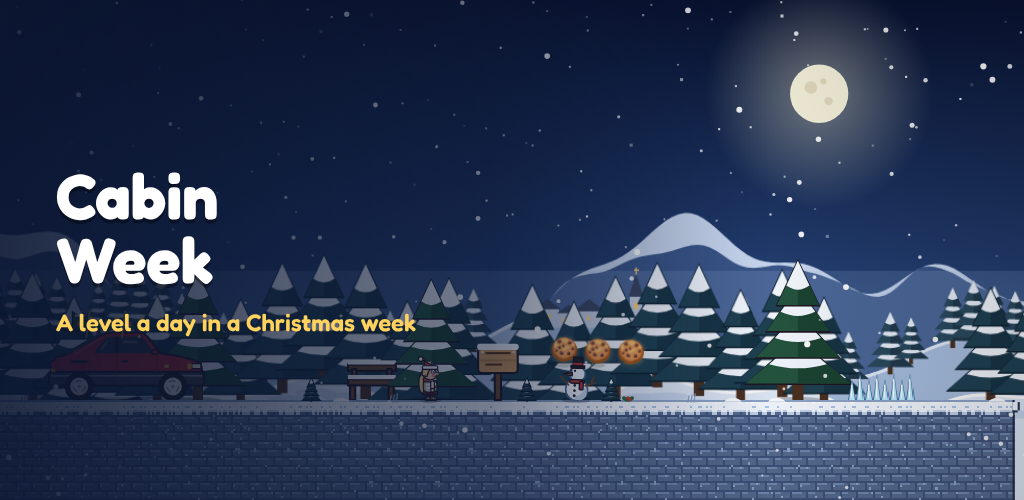
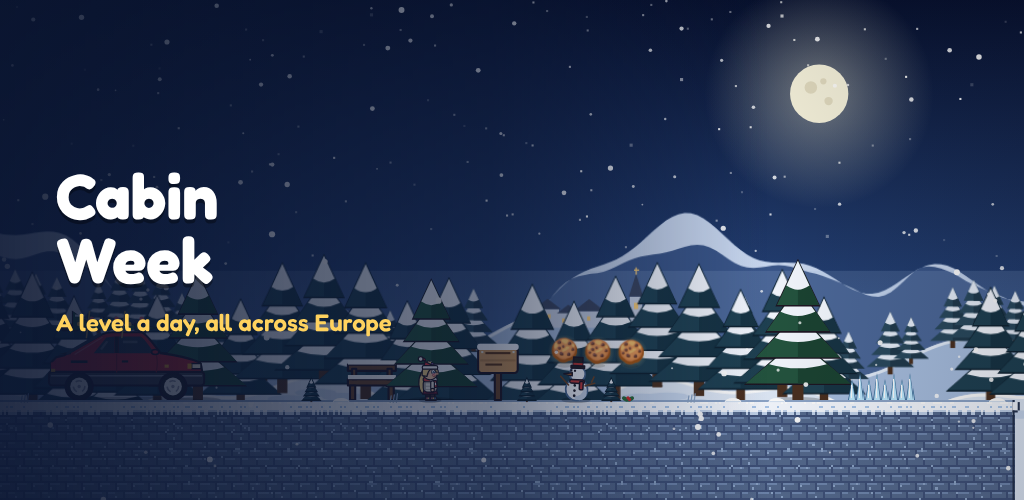
Store: new screenshots and texts for the six trips
Eight screenshots for Google Play (the title, the map of Europe, swimming in
Dalmatia, the cable car in Tirol, the windmills, the ice floe at the North
Pole, belly-sliding on Christmas Day and making your own hero), new store
descriptions in English and Dutch, release notes, and a feature graphic
tagline that fits the summer trip too.

Claude-Session: https://claude.ai/code/session_01VpBcyhxnr4KrCTq6G157K1

Changed region(s): [[0.1875, 0.63, 0.4062, 0.69]]

diff --git a/tools/store.js b/tools/store.js
@@ -2,7 +2,7 @@
 // - feature-graphic.png (1024×500): de grote afbeelding bovenaan de vermelding
 // - social-preview.png (1280×640): de social preview van de repository op GitHub (Settings → General → Social preview)
 // - tv-banner.png (1280×720): de banner voor Android TV (uit android-tv/banner.svg)
-// - screenshot-*.png (1920×1080): voor telefoon, tablet en tv
+// - screenshot-*.png (1920×1080): for phone, tablet and TV (Google Play takes up to 8): the title, the map, six regions and your own hero
 const { chromium } = require('@playwright/test');
 const { spawn } = require('child_process');
 const fs = require('fs');
@@ -12,10 +12,19 @@ const root = path.join(__dirname, '..'), out = path.join(root, 'docs', 'play-sto
 const port = 4187, base = `http://127.0.0.1:${port}/`;
 const KEY = 'cabin-week';
 
-async function open(browser, { width, height, scale = 1, char = 0, lang = 'en' }) {
+// Your own hero in the screenshots (a made-up kid with red curls).
+const HERO = { name: 'Robin', size: 'kid', skin: '#c68a5c', hair: 'curly', hairCol: '#b5512a', coat: 'puffer', coatCol: '#e8a33a',
+  pants: '#2f4870', glasses: 'round', beanie: '#2e5a9a', scarf: '#59c28a' };
+
+async function open(browser, { width, height, scale = 1, char = 0, lang = 'en', region = 'ardennes' }) {
   const page = await browser.newPage({ viewport: { width, height }, deviceScaleFactor: scale });
   await page.goto(base + '?lang=' + lang);
-  await page.evaluate(([KEY, char]) => localStorage.setItem(KEY, JSON.stringify({ unlocked: 8, char, best: {} })), [KEY, char]);
+  await page.evaluate(([KEY, char, region, HERO]) => {
+    // Every region unlocked, a few days played here and there, so the map shows progress.
+    const regions = { pole: { unlocked: 8, best: { 0: 3, 1: 3 } }, tirol: { unlocked: 8, best: { 0: 3 } }, norway: { unlocked: 8, best: { 0: 3, 1: 3, 2: 3 } },
+      netherlands: { unlocked: 8, best: {} }, dalmatia: { unlocked: 8, best: { 0: 3 } } };
+    localStorage.setItem(KEY, JSON.stringify({ unlocked: 8, char, best: { 0: 3, 1: 3, 2: 3, 3: 3 }, region, regions, hero: HERO }));
+  }, [KEY, char, region, HERO]);
   await page.reload();
   await page.waitForFunction(() => document.documentElement.classList.contains('ready'));
   await page.evaluate(() => document.fonts.ready);
@@ -39,19 +48,52 @@ async function play(page, i, walk) {
   await new Promise(r => setTimeout(r, 800));
   const browser = await chromium.launch(process.env.PW_CHROMIUM ? { executablePath: process.env.PW_CHROMIUM } : {});
   try {
-    // Schermafbeeldingen: 1280×720 op anderhalve scherpte = 1920×1080
+    // Screenshots: 1280×720 at 1.5× = 1920×1080. [file, region, day (null = a menu), character, walk ms, extra]
     const shots = [
-      ['screenshot-1-titel.png', null, 0, 0],
-      ['screenshot-2-aankomst.png', 0, 3, 1500],
-      ['screenshot-3-verjaardag.png', 3, 0, 1200],
-      ['screenshot-4-kerst.png', 4, 8, 1800],
-      ['screenshot-5-glijden.png', 5, 6, 900, true],
+      ['screenshot-1-title.png', 'norway', null, 'me', 0],
+      ['screenshot-2-map.png', 'ardennes', null, 0, 0, 'map'],
+      ['screenshot-3-dalmatia.png', 'dalmatia', 0, 3, 0, 'swim'],
+      ['screenshot-4-tirol.png', 'tirol', 2, 6, 0, 'mover'],
+      ['screenshot-5-netherlands.png', 'netherlands', 1, 2, 1600],
+      ['screenshot-6-north-pole.png', 'pole', 0, 5, 0, 'mover'],
+      ['screenshot-7-christmas.png', 'ardennes', 4, 8, 900, 'slide'],
+      ['screenshot-8-hero.png', 'ardennes', null, 'me', 0, 'hero'],
     ];
-    for (const [name, day, char, walk, slide] of shots) {
-      const page = await open(browser, { width: 1280, height: 720, scale: 1.5, char });
+    for (const [name, region, day, char, walk, extra] of shots) {
+      const page = await open(browser, { width: 1280, height: 720, scale: 1.5, char, region });
       if (day !== null) await play(page, day, walk);
-      if (slide) {
-        // Buikglijden door de sneeuw: op een vlak stuk zonder blokken, bordjes of mensen in de buurt.
+      if (extra === 'map') {
+        await page.locator('#regionBtn').click();
+        await page.waitForSelector('#mapWrap:not([hidden])');
+        await page.locator('#mapBox .pin[data-region="tirol"]').hover();
+        await page.waitForTimeout(300);
+      }
+      if (extra === 'hero') {
+        await page.locator('#ownHero').click(); // already chosen, so this opens the creator
+        await page.waitForSelector('#heroWrap:not([hidden])');
+        await page.mouse.move(0, 0);
+        await page.waitForTimeout(900);
+      }
+      if (extra === 'mover') {
+        // Ride the gondola or ice floe across the gap.
+        await page.evaluate(() => {
+          const m = L.movers[0]; L.enemies.length = 0;
+          P.x = m.x + m.w / 2 - P.w / 2; P.y = m.y - P.h; P.vx = 0; P.vy = 0; P.face = 1;
+        });
+        await page.waitForTimeout(1500);
+      }
+      if (extra === 'swim') {
+        // Swimming in the sea: the middle of the first gap with water.
+        await page.evaluate(() => {
+          for (let tx = 6; tx < L.w - 6; tx++) if (L.grid[12][tx] !== '#') {
+            let n = 0; while (L.grid[12][tx + n] !== '#') n++;
+            P.x = tx * 32 + n * 16 - P.w / 2; P.y = SWIM_Y - P.h; P.vx = 0; P.vy = 0; P.face = 1; return;
+          }
+        });
+        await page.waitForTimeout(1400);
+      }
+      if (extra === 'slide') {
+        // Belly-sliding through the snow: on flat ground without blocks, signs or people nearby.
         await page.evaluate(() => {
           const far = x => [...L.npcs, ...L.signs].every(o => Math.abs(o.x - x) > 160);
           for (let tx = 8; tx < L.w - 14; tx++) {
@@ -62,7 +104,7 @@ async function play(page, i, walk) {
         });
         await page.waitForTimeout(260);
       }
-      else await page.evaluate(() => { document.activeElement.blur(); document.querySelectorAll('*').forEach(el => { el.scrollTop = 0; }); });
+      else if (day === null && !extra) await page.evaluate(() => { document.activeElement.blur(); document.querySelectorAll('*').forEach(el => { el.scrollTop = 0; }); });
       await page.screenshot({ path: path.join(out, name) });
       await page.close();
     }
@@ -77,7 +119,7 @@ async function play(page, i, walk) {
         d.style.cssText = `position:fixed;inset:0;display:flex;flex-direction:column;justify-content:center;padding-left:${pad}px;` +
           'background:linear-gradient(90deg,rgba(11,22,49,.88),rgba(11,22,49,.55) 48%,transparent 75%);color:#fff;font-family:Fredoka,sans-serif;z-index:99';
         d.innerHTML = `<div style="font-size:${big}px;font-weight:700;line-height:1;text-shadow:0 4px 0 rgba(0,0,0,.35)">Cabin<br>Week</div>` +
-          `<div style="font-size:${small}px;font-weight:600;margin-top:16px;color:#ffd25e">A level a day in a Christmas week</div>`;
+          `<div style="font-size:${small}px;font-weight:600;margin-top:16px;color:#ffd25e">A level a day, all across Europe</div>`;
         document.body.appendChild(d);
       }, [pad, big, small]);
       await page.waitForTimeout(300);

diff --git a/docs/play-store/README.md b/docs/play-store/README.md
@@ -17,23 +17,28 @@ Cabin Week
 **Short description** (max. 80 characters)
 
 ```text
-Winter trips through Europe: one level a day, with puzzles and code locks.
+Trips through Europe: a level a day, with puzzles, code locks and your own hero.
 ```
 
 **Full description** (max. 4000 characters)
 
 ```text
-Two families, nine people, six trips. Choose a trip on the map of Europe: the Ardennes, the North Pole, Tirol, Norway, the Netherlands, or Dalmatia in summer. Every day of the week you play a new level.
+Two families, nine people, six trips. Pick a trip on the map of Europe and play a new level every day of the week: eight days per trip, 48 levels in all.
 
-Choose your hero and walk, jump and find your way through the forest, the cabin, the snow and a Christmas market. Find the three lost things, help the others with a task and crack the code lock with the clues on the signs along the way.
+Walk, jump, slide and swim your way through every day. Find the three lost things, help the others with a task and crack the code lock with the clues on the signs along the way.
 
-• 48 levels: six trips of eight days
-• The North Pole with Santa's workshop, ski school in Tirol, huskies and northern lights in Norway, windmills, canals and skating in the Netherlands, and swimming, waterfalls and old towns in summery Dalmatia
-• 9 characters to choose from
+Every trip plays differently:
+• The Ardennes: a Christmas week in a cabin in the woods, a birthday with Lego and a Saab with a Christmas tree on the roof
+• The North Pole: ice floes, slippery ice, Santa's workshop and a dark night lit only by lanterns and the northern lights
+• Tirol: climb the mountain, ride the cable car, ski school and the toboggan run
+• Norway: cliffs by the fjord, huskies, a kicksled, the stave church and a troll forest by torchlight
+• The Netherlands: windmills, dikes and a headwind, canal boats in Amsterdam, Gouda by candlelight and skating in Giethoorn
+• Dalmatia in summer: swim in the warm sea, the Krka waterfalls, the walls of Dubrovnik and island hopping by boat
+
+• Play as one of the nine, or make your own hero: height, hair, coat, glasses, hat and scarf
 • Code locks, with hints if you get stuck
-• Chips, chocolate and Christmas biscuits to collect
-• Jump on wild boars, robot vacuums, snowmen, lost penguins, mountain goats and little trolls, or belly-slide into them
-• A birthday with Lego, and a Saab with a Christmas tree on the roof
+• Chips, chocolate, ice creams and Christmas biscuits to collect
+• Jump on wild boars, robot vacuums, snowmen, lost penguins, mountain goats, little trolls, cross geese, greedy seagulls and crabs, or belly-slide into them
 • One app for your phone, tablet and Google TV
 • Play with the touch screen, a controller (PlayStation, Stadia, Xbox) or the TV remote
 • In English and Dutch
@@ -53,23 +58,28 @@ Cabin Week
 **Korte beschrijving**
 
 ```text
-Wintertripjes door Europa: elke dag een level met puzzels en codesloten.
+Reis door Europa: elke dag een level, met puzzels, codesloten en je eigen held.
 ```
 
 **Volledige beschrijving**
 
 ```text
-Twee gezinnen, negen personen, zes reizen. Kies een reis op de kaart van Europa: de Ardennen, de Noordpool, Tirol, Noorwegen, Nederland, of Dalmatië in de zomer. Elke dag van de week speel je een nieuw level.
+Twee gezinnen, negen personen, zes reizen. Kies een reis op de kaart van Europa en speel elke dag van de week een nieuw level: acht dagen per reis, 48 levels in totaal.
 
-Kies je held en loop, spring en zoek je een weg door het bos, het huisje, de sneeuw en een kerstmarkt. Vind de drie verdwenen dingen, help de anderen met een opdracht en kraak het codeslot met de aanwijzingen die onderweg op bordjes staan.
+Loop, spring, glij en zwem je een weg door elke dag. Vind de drie verdwenen dingen, help de anderen met een opdracht en kraak het codeslot met de aanwijzingen die onderweg op bordjes staan.
 
-• 48 levels: zes reizen van acht dagen
-• De Noordpool met de werkplaats van de Kerstman, skiles in Tirol, husky's en noorderlicht in Noorwegen, molens, grachten en schaatsen in Nederland, en zwemmen, watervallen en oude stadjes in zonnig Dalmatië
-• 9 poppetjes om uit te kiezen
+Elke reis speelt anders:
+• De Ardennen: een kerstweek in een huisje in het bos, een verjaardag met Lego en een Saab met een kerstboom op het dak
+• De Noordpool: ijsschotsen, glad ijs, de werkplaats van de Kerstman en een donkere nacht met alleen lantaarns en het noorderlicht
+• Tirol: de berg op, met de kabelbaan, naar skiles en de rodelbaan
+• Noorwegen: kliffen bij het fjord, husky's, een schopslee, de staafkerk en een trollenbos bij zaklamplicht
+• Nederland: molens, dijken en tegenwind, rondvaartboten in Amsterdam, Gouda bij kaarslicht en schaatsen in Giethoorn
+• Dalmatië in de zomer: zwemmen in de warme zee, de watervallen van Krka, de muren van Dubrovnik en eilandhoppen per boot
+
+• Speel als een van de negen, of maak je eigen held: lengte, haar, jas, bril, muts en sjaal
 • Codesloten, met tips als je vastzit
-• Frietjes, chocolade en kerstkoekjes om te verzamelen
-• Spring op wilde zwijnen, robotstofzuigers, sneeuwpoppen, verdwaalde pinguïns, berggeiten en kleine trollen, of glij er op je buik tegenaan
-• Een verjaardag met Lego, en een Saab met een kerstboom op het dak
+• Frietjes, chocolade, ijsjes en kerstkoekjes om te verzamelen
+• Spring op wilde zwijnen, robotstofzuigers, sneeuwpoppen, verdwaalde pinguïns, berggeiten, kleine trollen, boze ganzen, gulzige meeuwen en krabben, of glij er op je buik tegenaan
 • Eén app voor je telefoon, tablet en Google TV
 • Speel met het touchscreen, een controller (PlayStation, Stadia, Xbox) of de afstandsbediening
 • In het Engels en Nederlands
@@ -78,16 +88,32 @@ Kies je held en loop, spring en zoek je een weg door het bos, het huisje, de sne
 Geen advertenties, geen aankopen en geen gegevens die het apparaat verlaten.
 ```
 
+## What's new (release notes, max. 500 characters)
+
+```text
+<en-GB>
+Six trips on a map of Europe: the Ardennes, the North Pole, Tirol, Norway, the Netherlands and Dalmatia in summer. Every trip plays differently. Make your own hero. Faster and smaller app.
+</en-GB>
+<nl-NL>
+Zes reizen op een kaart van Europa: de Ardennen, de Noordpool, Tirol, Noorwegen, Nederland en Dalmatië in de zomer. Elke reis speelt anders. Maak je eigen held. Snellere en kleinere app.
+</nl-NL>
+```
+
+Paste this in **Release notes** when you create a release; Play Console reads the language tags itself.
+
 ## Images
+
+When you replace the screenshots in Play Console, delete the old five first (Store listing → Phone / Tablet / Android TV screenshots), then upload the eight new ones in order.
+
 
 | What Play asks for | File | Size |
 |---|---|---|
 | App icon | [`icons/icon-512.png`](../../icons/icon-512.png) | 512 × 512 |
 | Feature graphic | [`feature-graphic.png`](feature-graphic.png) | 1024 × 500 |
-| Phone screenshots (min. 2) | `screenshot-1` to `screenshot-5` (title, arrival, birthday, Christmas Day, belly slide) | 1920 × 1080 |
-| Tablet screenshots (7" and 10", optional) | the same five | 1920 × 1080 |
+| Phone screenshots (min. 2, max. 8) | `screenshot-1` to `screenshot-8`: the title screen, the map of Europe, swimming in Dalmatia, the cable car in Tirol, the windmills in the Netherlands, the ice floe at the North Pole, belly-sliding on Christmas Day, and making your own hero | 1920 × 1080 |
+| Tablet screenshots (7" and 10", optional) | the same eight | 1920 × 1080 |
 | **Android TV:** banner | [`tv-banner.png`](tv-banner.png) | 1280 × 720 |
-| **Android TV:** screenshots (min. 1) | the same five | 1920 × 1080 |
+| **Android TV:** screenshots (min. 1) | the same eight | 1920 × 1080 |
 
 The Android TV fields only appear after adding Android TV in **Test and release → Advanced settings → Form factors**. The app is one listing for every device: phone, tablet and TV (the TV banner and TV screenshots are only the extra TV part).
 

diff --git a/docs/publish-android.md b/docs/publish-android.md
@@ -59,7 +59,7 @@ Full explanation: [android-key.md](android-key.md). In short:
 5. **Store listing:** **Grow users → Store presence → Main store listing**:
    - Name, short description and full description: copy from [play-store/README.md](play-store/README.md).
    - App icon: `icons/icon-512.png`. Feature graphic: `docs/play-store/feature-graphic.png`.
-   - Phone screenshots: the five `docs/play-store/screenshot-*.png`. The same five for tablet and Android TV, plus `docs/play-store/tv-banner.png` as TV banner.
+   - Phone screenshots: the eight `docs/play-store/screenshot-*.png`, in order. The same eight for tablet and Android TV, plus `docs/play-store/tv-banner.png` as TV banner.
    - **Save.** Then **Manage translations → Add translations → Dutch – nl-NL** and paste the Dutch texts.
 6. **Store settings:** **Grow users → Store presence → Store settings**: category **Adventure**, an email address, website `https://cabinweek.online/`.
 
